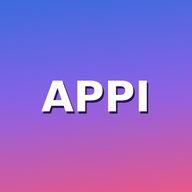
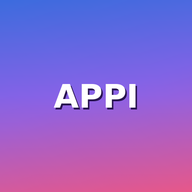
v240 Icono del escritorio aun mas chico: texto al 46%

Changed region(s): [[0.2188, 0.4062, 0.7812, 0.5938]]

diff --git a/index.html b/index.html
@@ -3535,7 +3535,7 @@ body.dark #bootScreen{background:#101322}
     <button class="ds-btn" data-ds="view-grabadora" onclick="openGrabadora()"><span>🎙</span> Grabadora</button>
     <button class="ds-btn" data-ds="view-notas" onclick="showView('view-notas')"><span>📝</span> Notas Keep</button>
   </nav>
-  <div class="ds-foot">APPI · v239 · Ícono respirando</div>
+  <div class="ds-foot">APPI · v240 · Ícono justo</div>
 </aside>
 <!-- Botón flotante para reabrir la barra (cuando está oculta) - oculto, reemplazado por nuevo -->
 <button class="ds-reopen" style="display:none !important" id="dsReopenBtn" onclick="toggleSidebar()" title="Abrir barra lateral" aria-label="Abrir barra lateral">☰</button>

diff --git a/service-worker.js b/service-worker.js
@@ -1,4 +1,4 @@
-const CACHE_NAME = 'appi-v239-icono-respirando';
+const CACHE_NAME = 'appi-v240-icono-justo';
 const CACHE_PREFIX = 'appi-';
 const APP_SHELL = [
   './',

diff --git a/README.md b/README.md
@@ -4,7 +4,7 @@ PWA local-first para planificación mensual, presupuesto, equipo, garantías, co
 
 ## Estado actual
 
-- Versión: **v239 · Ícono respirando**.
+- Versión: **v240 · Ícono justo**.
 - Publicación: [https://somospopups.github.io/appi/](https://somospopups.github.io/appi/)
 - Acceso por número de distribuidor y contraseña.
 - Acceso administrador POPUPS mediante el candado, sin DIP ni número de distribuidor.
